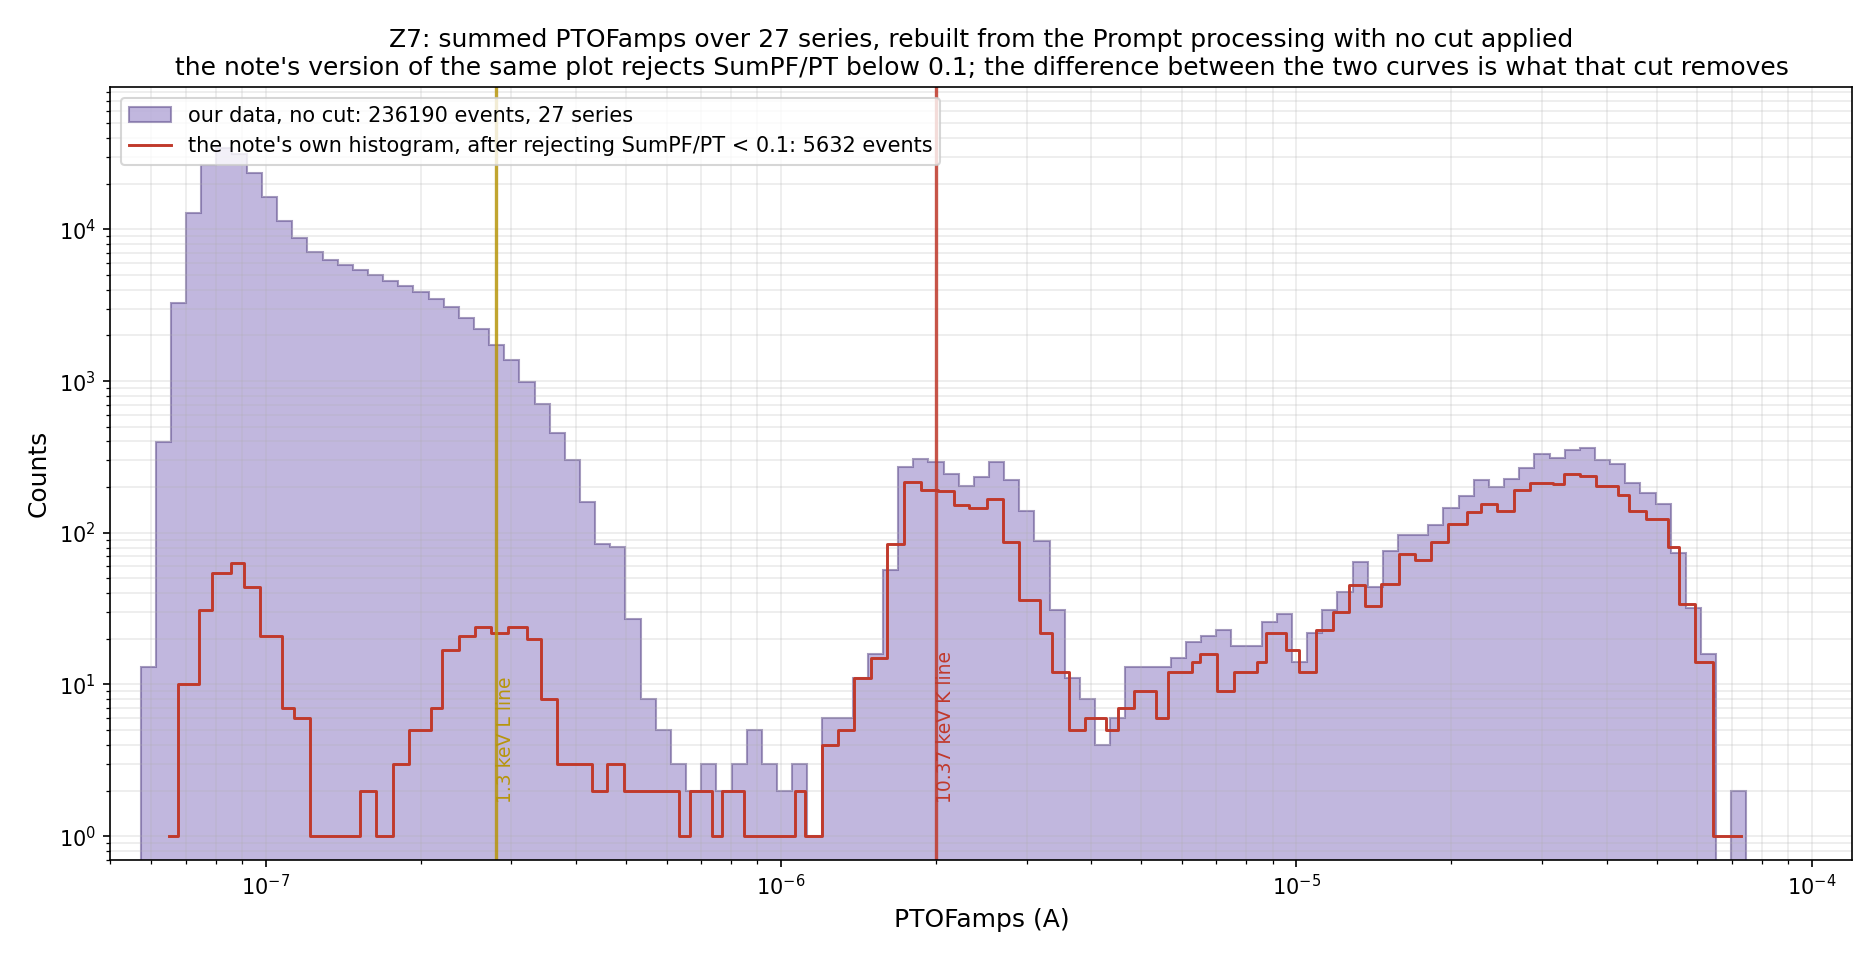
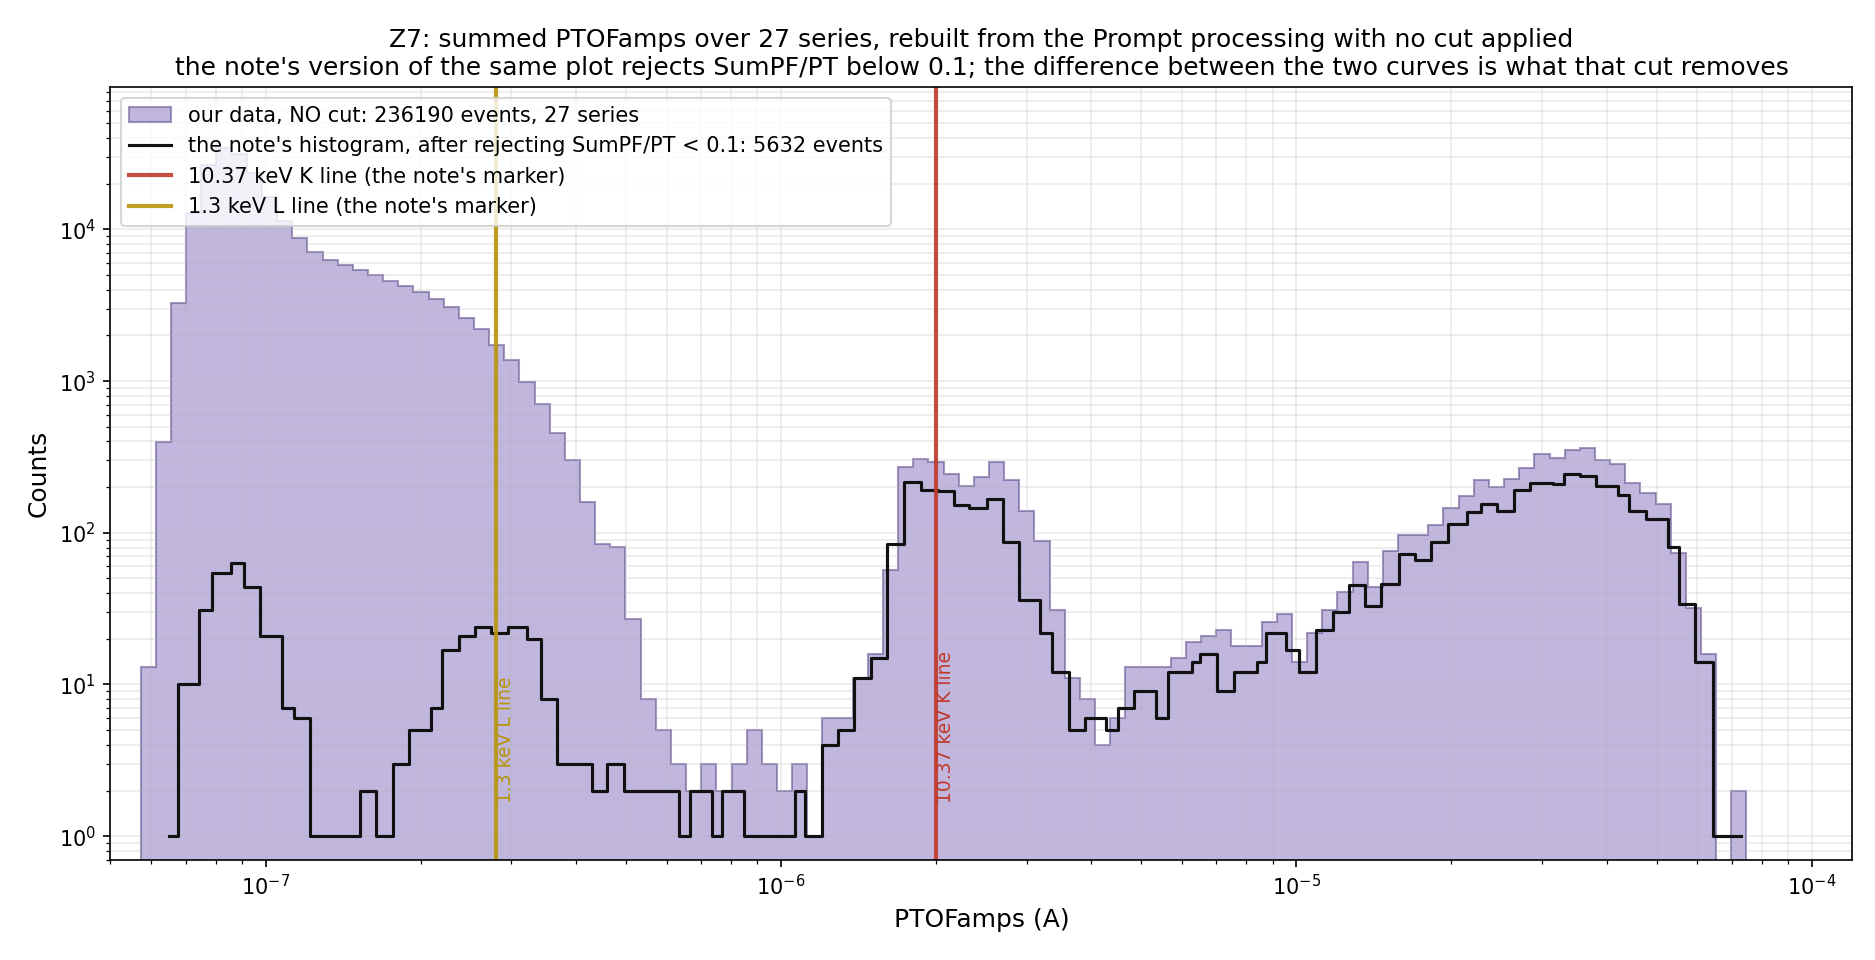
snolab: stop the spectrum figure using red for two different things
Red was drawing both the note's histogram and its 10.37 keV marker line, so the
four elements could not be told apart. The note's histogram is now black, leaving
red and yellow for the two marker lines exactly as the original figure uses them,
and both markers are named in the legend.

diff --git a/snolab/kline_population/scripts/reproduce_ops_spectrum.py b/snolab/kline_population/scripts/reproduce_ops_spectrum.py
@@ -142,16 +142,17 @@ pub = published(det)
 fig, ax = plt.subplots(figsize=(12.5, 6.4))
 ax.stairs(h, edges, fill=True, color="#8E7CC3", alpha=0.55, lw=1.0,
           edgecolor="#5B4A8A",
-          label=f"our data, no cut: {amps.size} events, {used} series")
+          label=f"our data, NO cut: {amps.size} events, {used} series")
 if pub is not None:
     xs, ys, p, DX = pub
-    ax.step(xs, ys, where="mid", lw=1.4, color="#C0392B",
-            label=f"the note's own histogram, after rejecting "
-                  f"SumPF/PT < {PANEL[det][1]}: {int(ys.sum())} events")
+    ax.step(xs, ys, where="mid", lw=1.5, color="#111111",
+            label=f"the note's histogram, after rejecting SumPF/PT < "
+                  f"{PANEL[det][1]}: {int(ys.sum())} events")
 for name, x, col in [("10.37 keV K line", LINES.get(det, {}).get("kline"), "#C0392B"),
                      ("1.3 keV L line", LINES.get(det, {}).get("lline"), "#B7950B")]:
     if x:
-        ax.axvline(x, color=col, lw=1.6, alpha=0.85)
+        ax.axvline(x, color=col, lw=2.0, alpha=0.9,
+                   label=f"{name} (the note's marker)")
         ax.text(x, 1.5, f" {name}", rotation=90, va="bottom", ha="left",
                 fontsize=9, color=col)
 ax.set_xscale("log")
